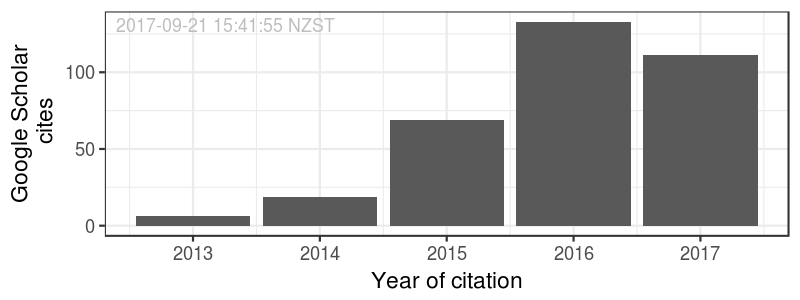
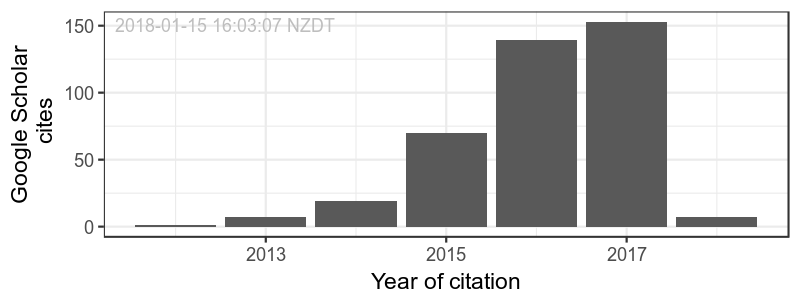
updated CV

Changed region(s): [[0.0625, 0.06, 1.0, 0.87], [0.0, 0.15, 0.0625, 0.69], [0.4688, 0.9, 0.6562, 0.96]]

diff --git a/index.md b/index.md
@@ -117,22 +117,26 @@ A course designed to walk Research Supervisors through the frameworks and pragma
 
 ## Publication Metrics
 
-* Journal articles: __27__	
+* Journal articles: __28__	
 * H-index: __11__
-* Citations: __343__
+* Citations: __399__
 
 ## Publications
 
 <!-- ### Journals -->
+`2018`
+
+Dunn P, Albury CL, Maksemous N, **Benton MC**, Sutherland HG, Smith RA, Haupt LM, and Griffiths LR. (2018) Next Generation Sequencing Methods for Diagnosis of Epilepsy Syndromes. *Frontiers in Genetics* (accepted 16th Janurary)
+
+Kho PF, Lea RA, **Benton MC**, Eccles DA, Haupt LM, Hewitt AW, Sherwin JC, Mackey DA, and Griffiths LR. (2018) Expression QTL analysis of glaucoma endophenotypes in the Norfolk Island isolate provides evidence that immune-related genes are associated with optic disc size. *Journal of Human Genetics* 63 [DOI:10.1038/s10038-017-0374-y]
+
 `2017`
 
-Kho PF, Lea RA, **Benton MC**, Eccles DA, Haupt LM, Hewitt AW, Sherwin JC, Mackey DA, Griffiths LR. (2017) Expression QTL analysis of glaucoma endophenotypes in the Norfolk Island isolate provides evidence that immune-related genes are associated with optic disc size. *Journal of Human Genetics* (accepted 21st September 2017)
+Matovinovic E, Kho PF, Lea RA, **Benton MC**, Eccles DA, Haupt LM, Hewitt AW, Sherwin JC, Mackey DA, and Griffiths LR. (2017) Genome-wide linkage and association analysis of primary open-angle glaucoma endophenotypes in the Norfolk Island isolate. *Molecular Vision* 23
 
-Matovinovic E, Kho PF, Lea RA, **Benton MC**, Eccles DA, Haupt LM, Hewitt AW, Sherwin JC, Mackey DA, and Griffiths LR. (2017) Genome-wide linkage and association analysis of primary open-angle glaucoma endophenotypes in the Norfolk Island isolate. *Molecular Vision* (accepted 4th July, awaiting publication)
+Jones A, Danielson KM, **Benton MC**, Ziegler O, Shah R, Stubbs RS, Das S, and Macartney-Coxson D. (2017) miRNA signatures of insulin resistance in obesity. *Obesity*  25(10) [DOI: 10.1002/oby.21950]
 
-Jones A, Danielson KM, **Benton MC**, Ziegler O, Shah R, Stubbs RS, Das S, and Macartney-Coxson D. (2017) miRNA signatures of insulin resistance in obesity. *Obesity* (early access, DOI: 10.1002/oby.21950)
-
-White NM, **Benton MC**, Kennedy D, Fox A, Griffiths LR, Lea RA, and Mengersen KL. (2017) Accounting for cell lineage and sex effects in the identification of cell-specific DNA methylation using a Bayesian model selection algorithm. *PLoS One* (accepted, pre-print) 
+White NM, **Benton MC**, Kennedy D, Fox A, Griffiths LR, Lea RA, and Mengersen KL. (2017) Accounting for cell lineage and sex effects in the identification of cell-specific DNA methylation using a Bayesian model selection algorithm. *PLoS One* 12(9)
 
 Maltby V, Lea RA, Sanders K, White NM, **Benton MC**, Scott R, and Lechner-Scott J. (2017) Differential Methylation at MHC in CD4+ T cells is associated with multiple sclerosis independently of HLA-DRB1. *Clinical Epigenetics* 9(71) 
 
